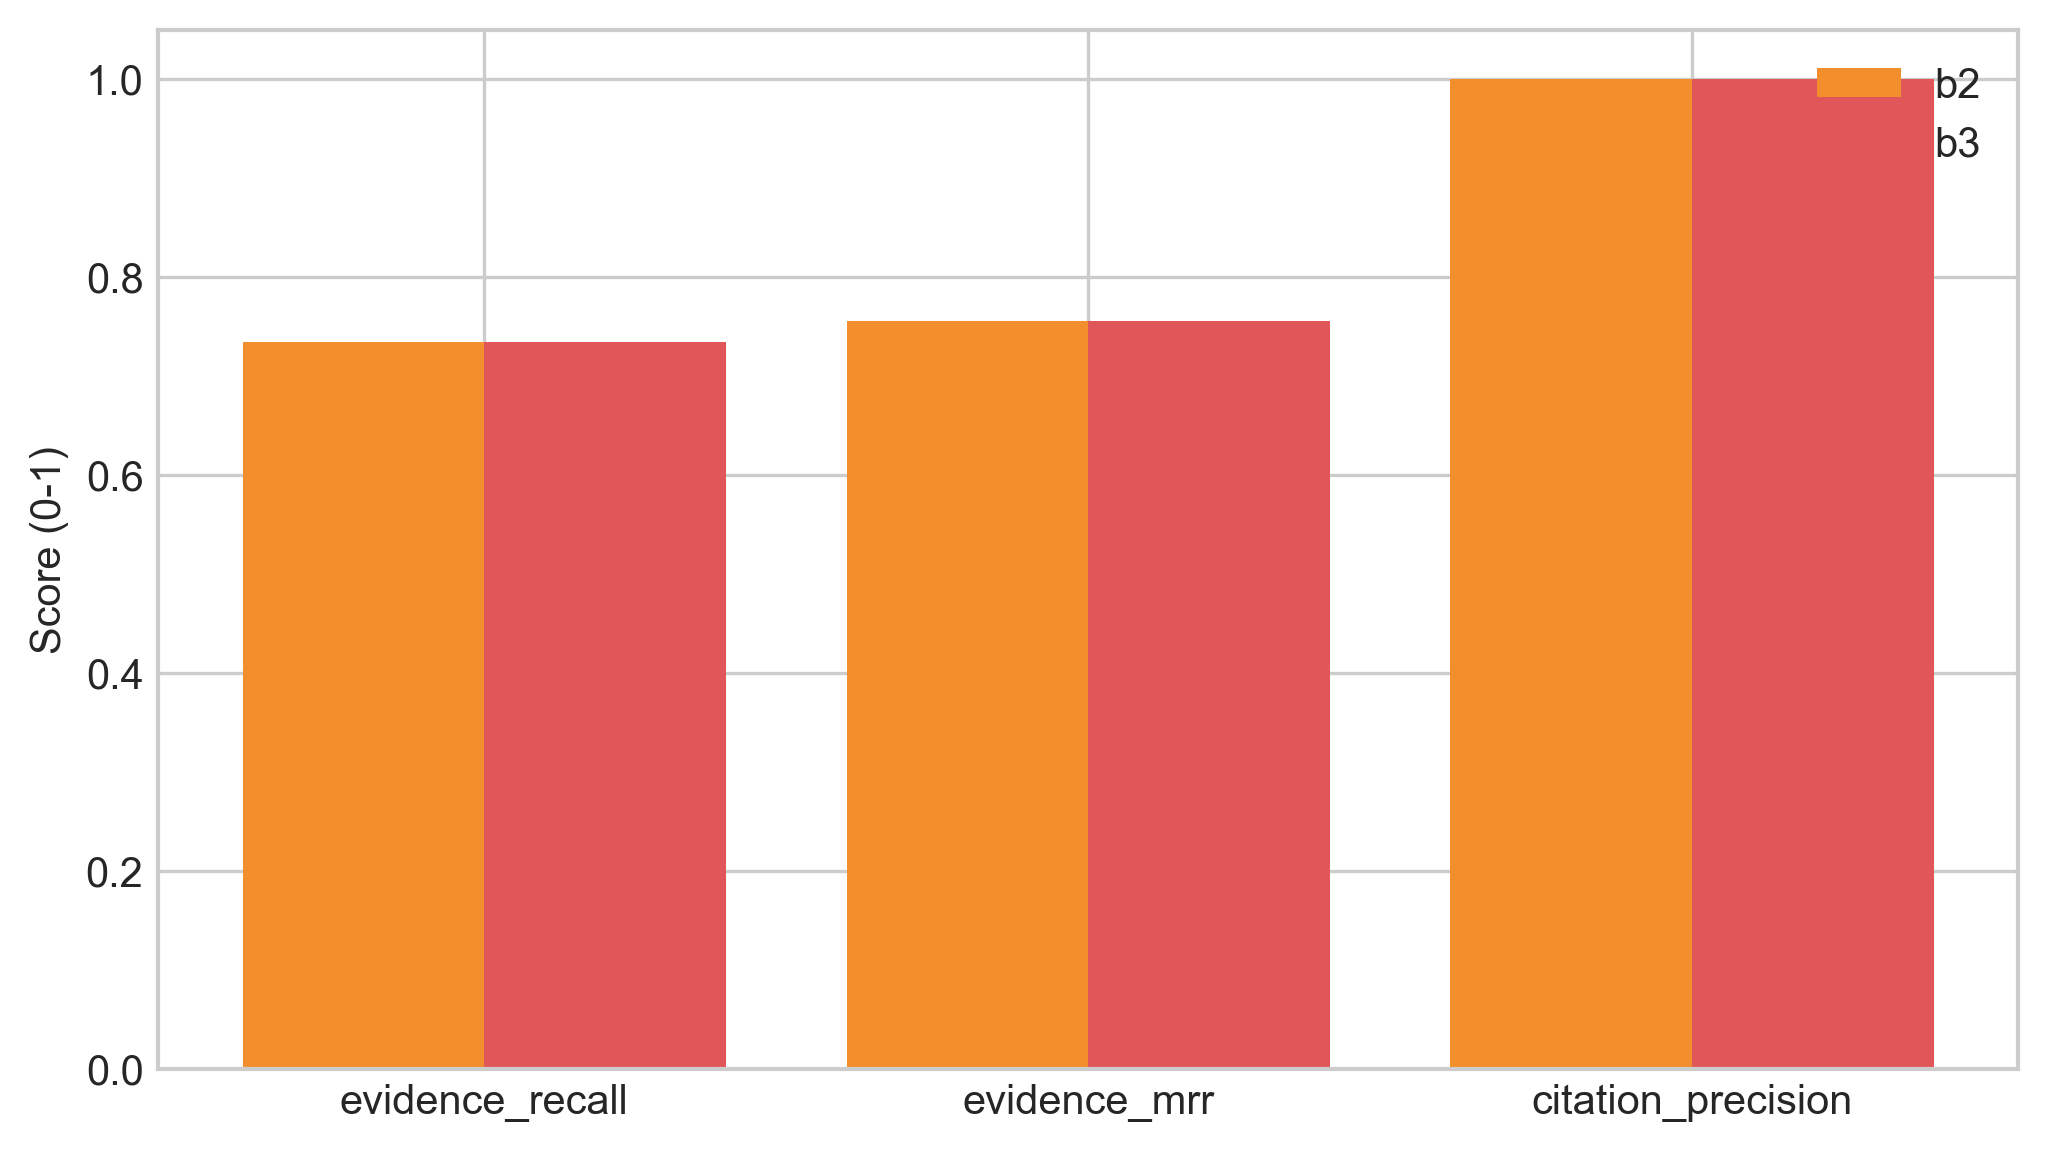
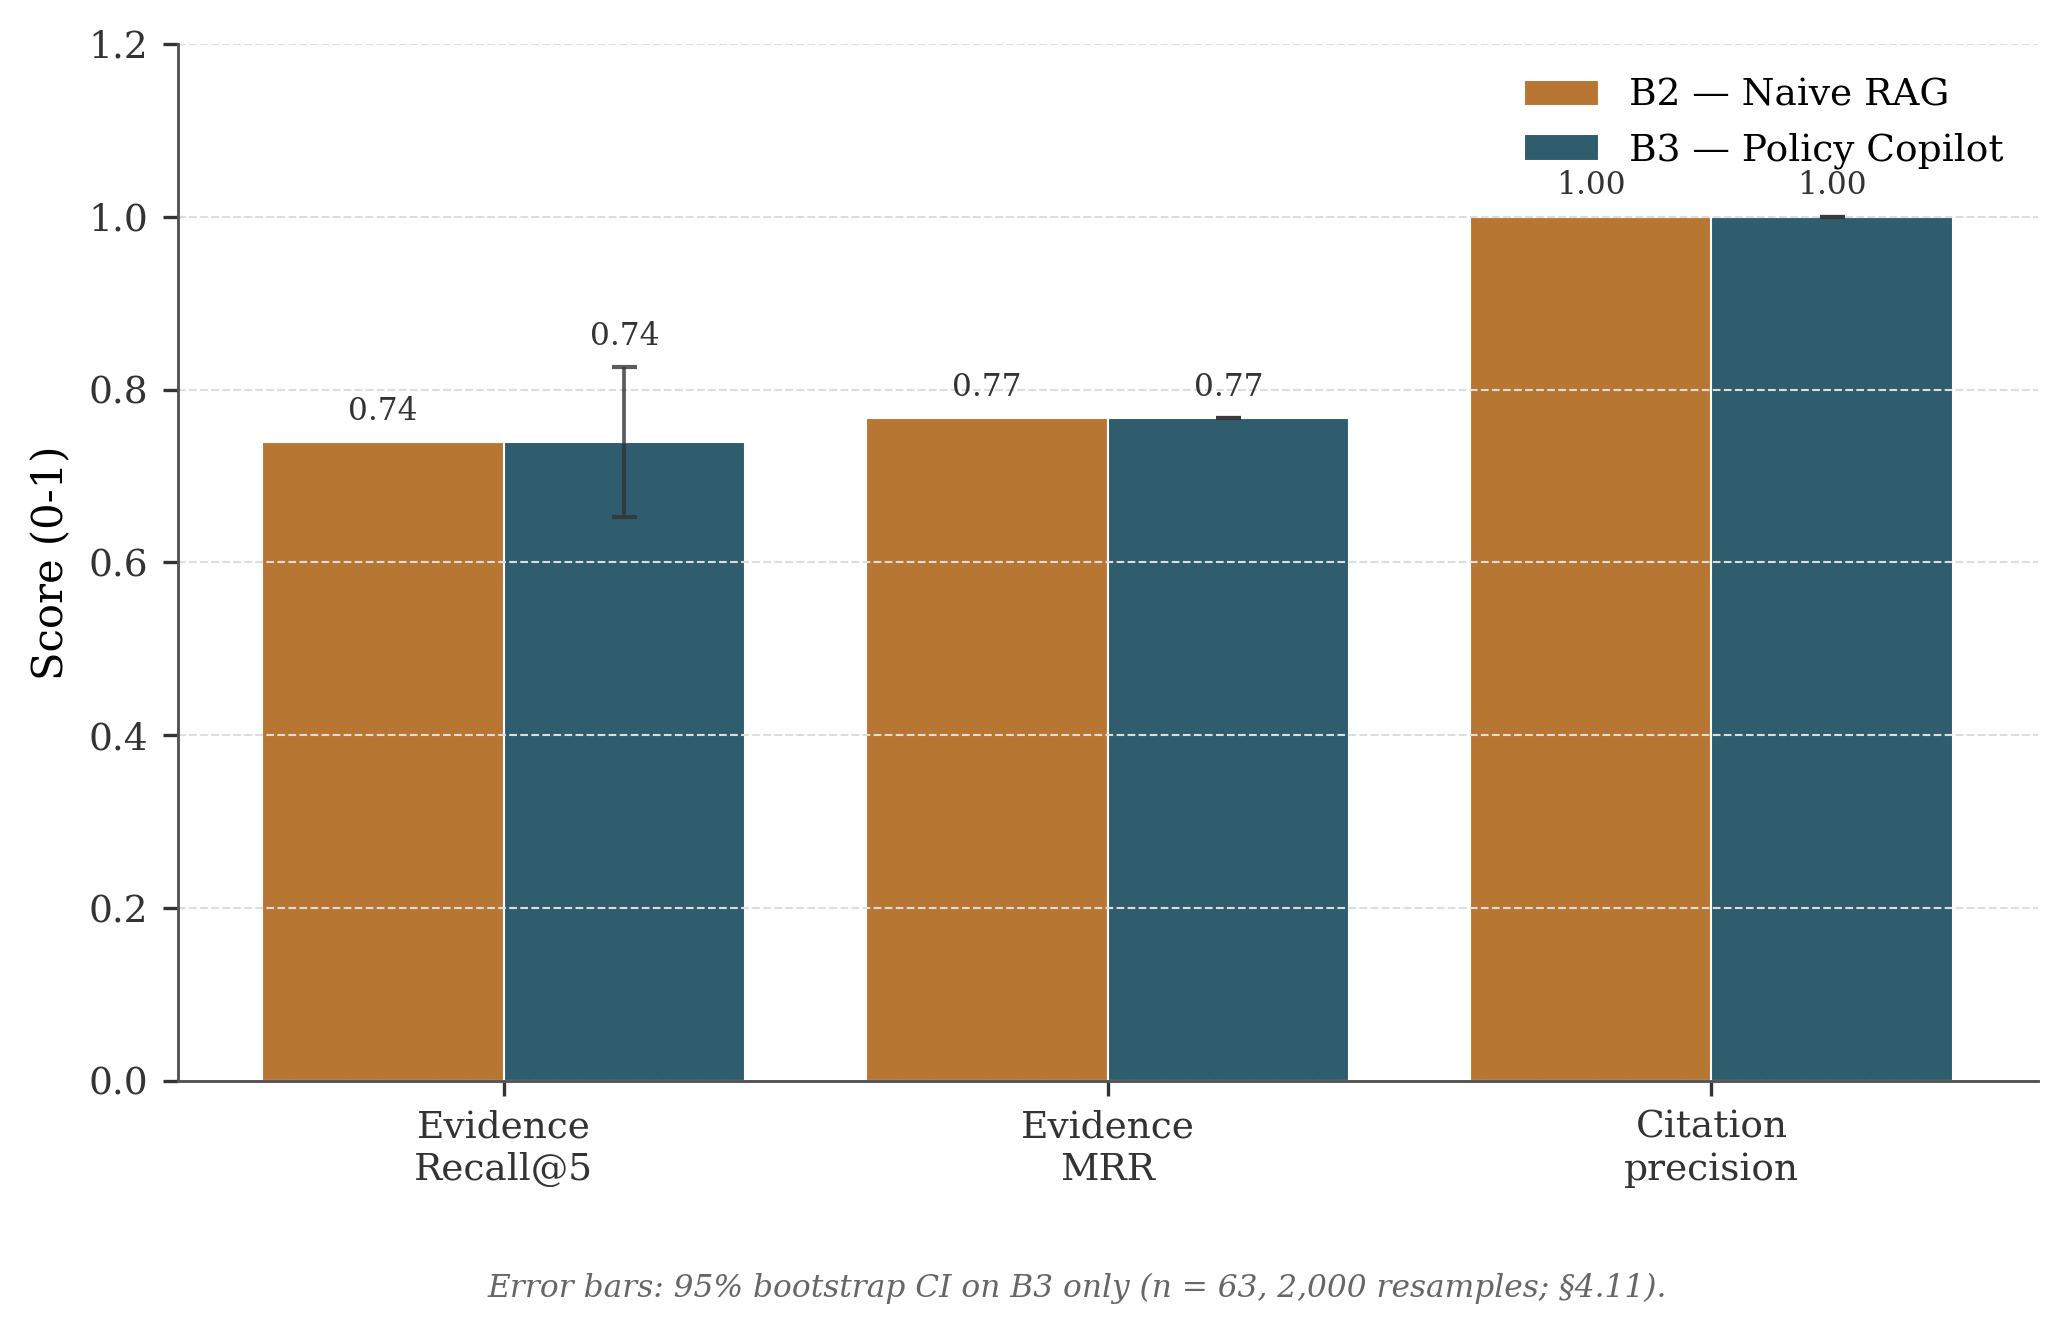
chore(release): refresh figures and run summary from offline reproduction
Re-runs scripts/reproduce_offline.py and scripts/verify_artifacts.py
end-to-end on a clean install and commits the resulting artefacts so
the repo's tracked figures match the most recent offline reproduction.

Refreshed:
- results/figures/fig_baselines.png
- results/figures/fig_groundedness.png
- results/figures/fig_retrieval.png
- results/figures/fig_tradeoff.png
- results/tables/run_summary.csv
- results/manifest.json
- results/runs/test_b2_extractive_bm25_integration/

Also extends .gitignore so the timestamped per-test run directories
(`results/runs/b2_test_extractive_bm25_2*`,
 `results/runs/b3_test_extractive_bm25_2*`) created by pytest no
longer pollute working-tree status. Those timestamped dirs were
already excluded from the submission zip.

No metric values changed: the offline-path runs use deterministic
inputs (BM25 + extractive) so re-running produces the same numbers.

diff --git a/results/runs/test_b2_extractive_bm25_integration/README.md b/results/runs/test_b2_extractive_bm25_integration/README.md
@@ -2,10 +2,10 @@
 
 - **Baseline**: b2
 - **Queries processed**: 44
-- **Duration**: 0.0s
+- **Duration**: 0.1s
 - **Provider**: openai
 - **Model**: gpt-4o-mini
-- **Created**: 2026-04-22T20:01:34.696448+00:00
+- **Created**: 2026-05-07T18:27:17.000008+00:00
 
 ## Locked Targets (placeholders)
 - (T1) ≥30% reduction in ungrounded-claim rate vs B2
